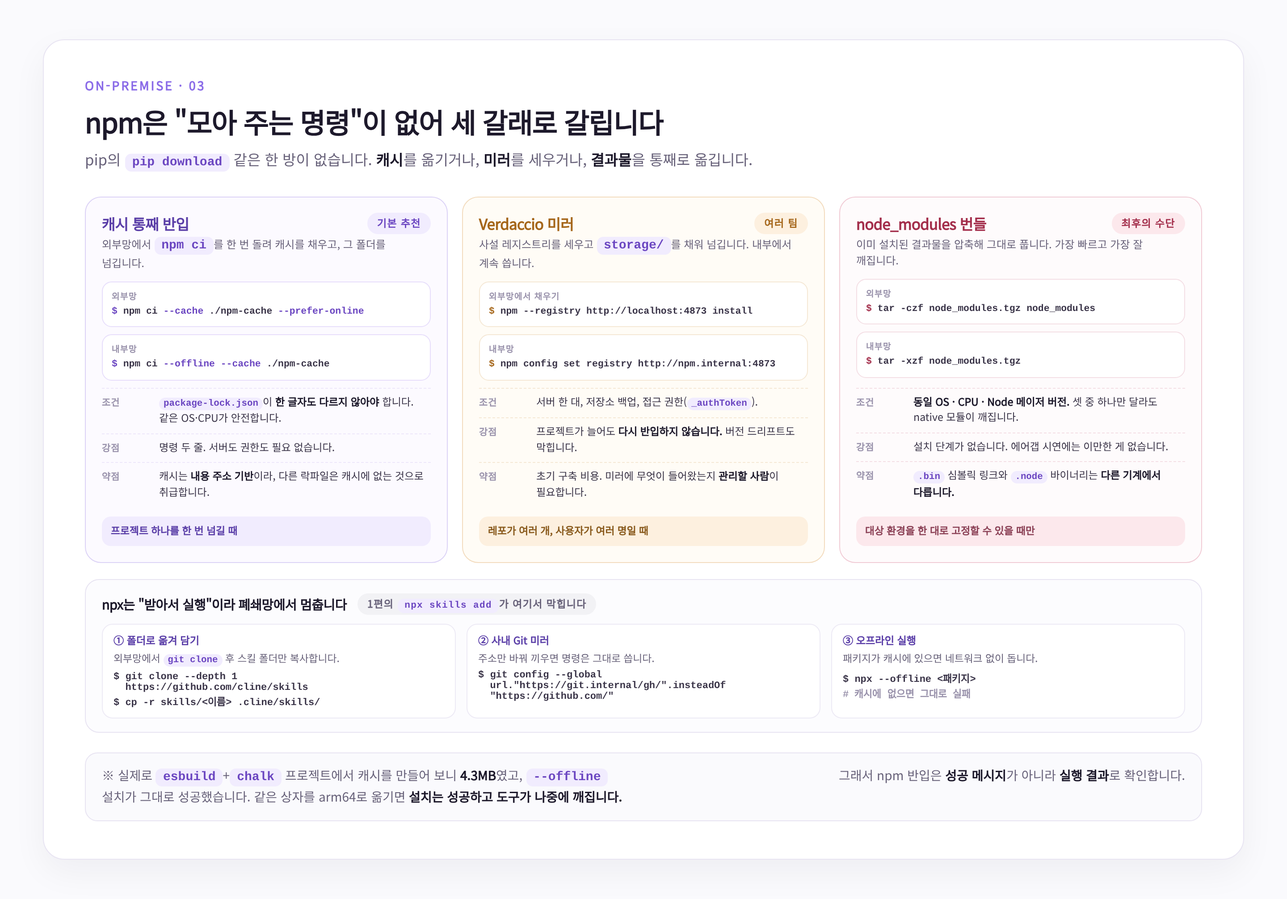
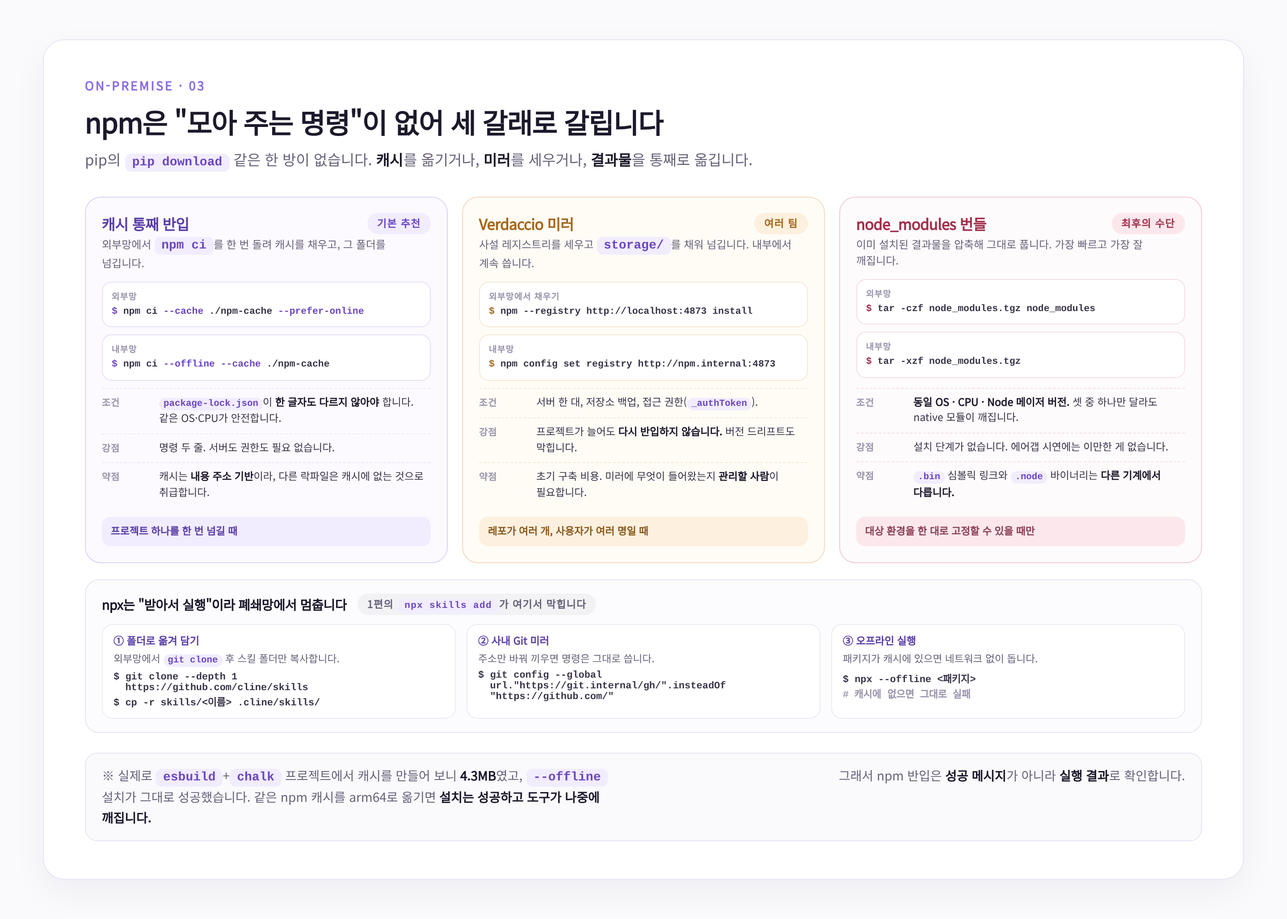
fix(notes): 4편 '상자' 은유를 패키지 용어로 교정 + 도식 4장 재렌더, 홈 히어로 영문 문구
- 본문 '상자·설치기·조각' 0건: 문맥별로 wheelhouse·npm 캐시·묶음·패키지 관리자·수동 반입으로 교체
- 도식 4장(반입 파이프라인·pip wheelhouse·npm 3ways·함정 체크리스트) 문구 동일 기준으로 재렌더
- diary-src/index.njk 히어로 설명을 'This is HD2Lab's work log.' 로 변경

diff --git a/posts/2026-11-18-onprem-pip-npm-offline-install/index.html b/posts/2026-11-18-onprem-pip-npm-offline-install/index.html
@@ -117,24 +117,24 @@
 
     <div class="md-body post-content">
         <p>첫 편에서 모델은 엔진, 하네스는 핸들이라고 적었습니다. 셋째 편에서는 그 핸들을 매일 쥐는 세팅을 정리했습니다. 그런데 그 세팅이 한 번에 멈추는 곳이 있습니다. 인터넷이 닫힌 망입니다. 모델도 도구도 스킬도 결국 패키지로 도착하는데, 그 패키지가 들어오지 못하면 앞의 모든 준비가 그 자리에서 서 있습니다.</p>
-<p>이 글은 그 문을 여는 방법에 대한 노트입니다. 거창한 아키텍처가 아니라, 인터넷이 되는 곳에서 상자 하나를 만들어 닫힌 망으로 넘기고, 그 상자만으로 설치를 끝내는 절차입니다. <a href="/diary/posts/2026-11-18-harness-layer-concept-and-usage/">모델은 엔진, 하네스는 핸들</a>에서 <code>npx</code>로 스킬을 얹던 이야기가 여기서 다시 나옵니다. 그 명령이 폐쇄망에서 왜 멈추는지도 이 글의 일부입니다.</p>
-<p>글에 나오는 숫자는 실제로 돌려 본 결과입니다. 리눅스 x86_64 환경에서 요구사항 세 줄을 받았더니 wheel 17개, 8.7MB였고, 그 상자로 빈 가상환경에서 설치와 <code>import</code>까지 확인했습니다. 예시는 그때 쓴 값 그대로입니다. 다만 회사마다 망 분리 정책과 반입 절차가 다르므로, 절차는 각자의 규정을 따르시고 이 글은 기술적인 부분만 다룹니다.</p>
+<p>이 글은 그 문을 여는 방법에 대한 노트입니다. 거창한 아키텍처가 아니라, 인터넷이 되는 곳에서 패키지와 그 의존성을 한데 모은 묶음 하나를 만들어 닫힌 망으로 넘기고, 그 묶음만으로 설치를 끝내는 절차입니다. <a href="/diary/posts/2026-11-18-harness-layer-concept-and-usage/">모델은 엔진, 하네스는 핸들</a>에서 <code>npx</code>로 스킬을 얹던 이야기가 여기서 다시 나옵니다. 그 명령이 폐쇄망에서 왜 멈추는지도 이 글의 일부입니다.</p>
+<p>글에 나오는 숫자는 실제로 돌려 본 결과입니다. 리눅스 x86_64 환경에서 요구사항 세 줄을 받았더니 wheel 17개, 8.7MB였고, 그 wheelhouse로 빈 가상환경에서 설치와 <code>import</code>까지 확인했습니다. 예시는 그때 쓴 값 그대로입니다. 다만 회사마다 망 분리 정책과 반입 절차가 다르므로, 절차는 각자의 규정을 따르시고 이 글은 기술적인 부분만 다룹니다.</p>
 <h2>1. 왜 폐쇄망에서 패키지 설치가 자꾸 깨질까</h2>
 <h3>&quot;설치는 복사다&quot;라고 생각하면 어긋납니다</h3>
 <p>인터넷이 되는 곳에서의 설치는 이미 잘 도는 기계입니다. <code>pip install fastapi</code>는 인덱스를 조회하고, 후보를 고르고, 의존성을 계산하고, 내 플랫폼에 맞는 파일을 받아 설치합니다. 이 과정이 너무 매끄러워서 &quot;패키지 하나 받아 오는 일&quot;로 보입니다.</p>
-<p>닫힌 망에서는 이 매끄러움이 사라집니다. 남는 것은 파일뿐입니다. 그런데 그 파일 하나를 복사해 오면, 설치기는 여전히 인덱스를 조회하려 하고, 의존성을 계산하려 하고, 내 플랫폼에 맞는지 확인하려 합니다. <strong>설치기가 하는 일을 미리 끝내 두지 않으면, 복사한 파일은 설치로 이어지지 않습니다.</strong> 폐쇄망에서 자주 깨지는 이유는 세 가지로 좁혀집니다.</p>
+<p>닫힌 망에서는 이 매끄러움이 사라집니다. 남는 것은 파일뿐입니다. 그런데 그 파일 하나를 복사해 오면, pip은 여전히 인덱스를 조회하려 하고, 의존성을 계산하려 하고, 내 플랫폼에 맞는지 확인하려 합니다. <strong>패키지 관리자가 하는 일을 미리 끝내 두지 않으면, 복사한 파일은 설치로 이어지지 않습니다.</strong> 폐쇄망에서 자주 깨지는 이유는 세 가지로 좁혀집니다.</p>
 <h3>이유 ① 전이 의존성이 따라오지 않습니다</h3>
 <p><code>requirements.txt</code>에 세 줄을 적었다고 설치되는 패키지가 세 개인 경우는 거의 없습니다. <code>fastapi</code>는 <code>starlette</code>를 부르고, <code>starlette</code>는 <code>anyio</code>를 부르고, <code>pydantic</code>은 <code>pydantic-core</code>를 부릅니다. <code>uvicorn[standard]</code>는 <code>uvloop</code>, <code>httptools</code>, <code>watchfiles</code>, <code>websockets</code>까지 끌고 옵니다.</p>
-<p>인터넷이 되면 이 사슬은 설치기가 알아서 풉니다. 닫힌 망에서는 풀 대상이 상자 안에 없으므로, 사슬이 끊긴 지점에서 멈춥니다. 그리고 그 지점은 대개 내가 적지 않은 이름입니다. 실제로 세 줄이 열일곱 개가 되었습니다.</p>
+<p>인터넷이 되면 이 사슬은 패키지 관리자가 알아서 풉니다. 닫힌 망에서는 풀 대상이 묶음 안에 없으므로, 사슬이 끊긴 지점에서 멈춥니다. 그리고 그 지점은 대개 내가 적지 않은 이름입니다. 실제로 세 줄이 열일곱 개가 되었습니다.</p>
 <h3>이유 ② OS·CPU 아키텍처와 버전이 태그로 붙습니다</h3>
-<p>파이썬 패키지의 wheel 파일 이름에는 조건이 적혀 있습니다. <code>uvloop-0.23.0-cp311-cp311-manylinux2014_x86_64.whl</code>이라는 이름은 &quot;파이썬 3.11, 리눅스, x86_64&quot;에서만 쓸 수 있다는 뜻입니다. 조건이 맞지 않으면 설치기는 그 파일을 후보에서 조용히 제외합니다.</p>
-<p>문제는 그 결과가 &quot;플랫폼이 다릅니다&quot;로 나오지 않는다는 점입니다. 아래는 파이썬 3.12 환경에 3.11용 상자를 넣었을 때 실제로 나온 메시지입니다.</p>
+<p>파이썬 패키지의 wheel 파일 이름에는 조건이 적혀 있습니다. <code>uvloop-0.23.0-cp311-cp311-manylinux2014_x86_64.whl</code>이라는 이름은 &quot;파이썬 3.11, 리눅스, x86_64&quot;에서만 쓸 수 있다는 뜻입니다. 조건이 맞지 않으면 pip은 그 파일을 후보에서 조용히 제외합니다.</p>
+<p>문제는 그 결과가 &quot;플랫폼이 다릅니다&quot;로 나오지 않는다는 점입니다. 아래는 파이썬 3.12 환경에 파이썬 3.11용으로 받은 wheelhouse를 넣었을 때 실제로 나온 메시지입니다.</p>
 <pre class="code-block" data-lang="text"><code class="hljs language-text">ERROR: Could not find a version that satisfies the requirement pydantic-core==2.27.2 (from versions: none)
 ERROR: No matching distribution found for pydantic-core==2.27.2
 </code></pre>
-<p>버전이 없는 것처럼 보이지만, 실제로는 그 버전의 파일이 태그 때문에 걸러진 것입니다. 이 메시지를 &quot;인덱스에 그 버전이 없나 보다&quot;로 읽으면 한참을 헤맵니다. Node 쪽도 같습니다. <code>esbuild</code>, <code>sharp</code> 같은 패키지는 플랫폼별 바이너리를 별도 패키지(<code>@esbuild/linux-arm64</code> 같은 이름)로 받아 오므로, 캐시를 한 아키텍처에서 만들면 다른 아키텍처에서는 그 조각이 없습니다. 그리고 이 경우 설치 자체는 성공합니다. 도구를 실행할 때 깨집니다.</p>
+<p>버전이 없는 것처럼 보이지만, 실제로는 그 버전의 파일이 태그 때문에 걸러진 것입니다. 이 메시지를 &quot;인덱스에 그 버전이 없나 보다&quot;로 읽으면 한참을 헤맵니다. Node 쪽도 같습니다. <code>esbuild</code>, <code>sharp</code> 같은 패키지는 플랫폼별 바이너리를 별도 패키지(<code>@esbuild/linux-arm64</code> 같은 이름)로 받아 오므로, 캐시를 한 아키텍처에서 만들면 다른 아키텍처에서는 그 플랫폼용 패키지가 빠져 있습니다. 그리고 이 경우 설치 자체는 성공합니다. 도구를 실행할 때 깨집니다.</p>
 <h3>이유 ③ 설치 스크립트가 다시 인터넷을 부릅니다</h3>
-<p>패키지 파일이 상자 안에 다 있어도, 설치 과정에서 스크립트가 도는 패키지가 있습니다. <code>playwright</code>는 브라우저를, <code>sharp</code>는 이미지 라이브러리를, <code>esbuild</code>는 플랫폼 바이너리를 확인하고, <code>node-gyp</code>을 쓰는 패키지는 컴파일러와 헤더를 찾습니다. 이 단계는 대개 설치 시점에 네트워크를 씁니다.</p>
+<p>패키지 파일이 묶음 안에 다 있어도, 설치 과정에서 스크립트가 도는 패키지가 있습니다. <code>playwright</code>는 브라우저를, <code>sharp</code>는 이미지 라이브러리를, <code>esbuild</code>는 플랫폼 바이너리를 확인하고, <code>node-gyp</code>을 쓰는 패키지는 컴파일러와 헤더를 찾습니다. 이 단계는 대개 설치 시점에 네트워크를 씁니다.</p>
 <p>그래서 &quot;패키지는 다 받았는데 설치가 네트워크 오류로 죽는다&quot;는 상황이 생깁니다. 받아야 할 것이 패키지가 아니라 <strong>바이너리</strong>였던 것입니다.</p>
 <h3>그래서 순서를 바꿉니다</h3>
 <p>세 가지 이유를 한 줄로 줄이면 이렇습니다. <strong>설치 시점에 네트워크를 쓰는 단계가 하나라도 남아 있으면, 그 단계에서 깨집니다.</strong> 해결은 그 단계를 모두 외부망으로 옮기고, 내부망에서는 네트워크를 아예 쓰지 않게 만드는 것입니다. 순서는 수집, 봉인, 검사, 설치 네 단계가 됩니다.</p>
@@ -148,7 +148,7 @@ ERROR: No matching distribution found for pydantic-core==2.27.2
 uvicorn[standard]==0.34.0
 pydantic==2.10.4
 </code></pre>
-<p>버전을 <code>==</code>로 고정한 것이 중요합니다. 범위(<code>&gt;=</code>)로 두면 받는 날짜에 따라 다른 상자가 만들어지고, 그 상자는 재현이 되지 않습니다. 내부망에서 &quot;지난달엔 됐는데&quot;가 나오는 출발점이 대개 여기입니다.</p>
+<p>버전을 <code>==</code>로 고정한 것이 중요합니다. 범위(<code>&gt;=</code>)로 두면 받는 날짜에 따라 다른 wheelhouse가 만들어지고, 그 결과는 재현되지 않습니다. 내부망에서 &quot;지난달엔 됐는데&quot;가 나오는 출발점이 대개 여기입니다.</p>
 <p>이제 외부망에서 받습니다. 내부 서버의 플랫폼이 실행 환경과 다르면 대상을 지정합니다.</p>
 <pre class="code-block" data-lang="bash"><code class="hljs language-bash"><span class="hljs-comment"># 내부 서버와 같은 환경에서 받는다면 이 두 줄이면 됩니다</span>
 pip download -r requirements.txt -d ./wheelhouse
@@ -190,17 +190,17 @@ or --only-binary=:all: must be set and --no-binary must not be set.
 <pre class="code-block" data-lang="bash"><code class="hljs language-bash">pip install --no-index --find-links=./wheelhouse -r requirements.txt
 </code></pre>
 <p><code>--no-index</code>는 &quot;어떤 인덱스도 보지 않는다&quot;는 뜻이고, <code>--find-links</code>는 &quot;이 폴더에서 파일을 찾는다&quot;는 뜻입니다. 두 옵션이 함께 있을 때 진짜 오프라인 설치가 됩니다. <code>--find-links</code>만 있고 <code>--no-index</code>가 없으면, 폴더에 없는 패키지를 인덱스에서 찾으려 시도합니다. 망이 닫혀 있으니 시간 초과로 죽고, 원인은 &quot;폴더에 없어서&quot;입니다.</p>
-<p>해시까지 고정하고 싶다면 <code>--require-hashes</code>를 함께 씁니다. 요구사항 파일에 <code>--hash=sha256:...</code>가 적혀 있어야 하고, pip은 상자 안의 파일 해시가 그 값과 다르면 설치하지 않습니다. 상자가 오래 보관되는 곳이라면 이 한 줄이 마지막 방어선이 됩니다.</p>
+<p>해시까지 고정하고 싶다면 <code>--require-hashes</code>를 함께 씁니다. 요구사항 파일에 <code>--hash=sha256:...</code>가 적혀 있어야 하고, pip은 wheelhouse 안의 파일 해시가 그 값과 다르면 설치하지 않습니다. wheelhouse를 오래 보관하는 곳이라면 이 한 줄이 마지막 방어선이 됩니다.</p>
 <h3>실패 메시지 세 개를 읽는 법</h3>
 <p>오프라인 설치에서 만나는 메시지는 세 갈래입니다. 갈래를 알면 처방도 바로 나옵니다.</p>
 <p><strong>첫째, 태그 불일치.</strong> 앞에서 본 <code>No matching distribution found for pydantic-core==2.27.2</code>입니다. 파일은 있지만 조건이 맞지 않습니다. <code>pip download</code>를 대상 플랫폼으로 다시 하거나, <code>ls wheelhouse | grep pydantic</code>으로 실제 태그를 확인합니다.</p>
 <p><strong>둘째, 빌드 도구 부재.</strong> 소스 배포판(sdist)을 만나면 pip은 격리된 빌드 환경을 만들고, 거기에 <code>setuptools</code>를 설치하려 합니다. 인덱스가 꺼져 있으니 그것도 실패합니다.</p>
 <pre class="code-block" data-lang="text"><code class="hljs language-text">ERROR: Could not find a version that satisfies the requirement setuptools&gt;=40.8.0 (from versions: none)
 </code></pre>
-<p>해결은 두 가지입니다. wheelhouse에 <code>setuptools</code>와 <code>wheel</code>을 함께 넣거나, 빌드 도구가 이미 깔린 환경에서 <code>--no-build-isolation</code>으로 설치합니다. 사내 미러를 오래 운영할 생각이라면 전자가 낫습니다. 상자 하나로 끝나기 때문입니다.</p>
-<p><strong>셋째, 버전 충돌.</strong> 상자에 A 패키지의 두 버전이 들어 있거나, 요구사항이 상자 안의 버전과 어긋날 때 납니다. 상자는 &quot;그날의 해답&quot;이므로, 상자를 만든 시점의 lockfile을 함께 넣어 두면 이 혼란이 줄어듭니다.</p>
+<p>해결은 두 가지입니다. wheelhouse에 <code>setuptools</code>와 <code>wheel</code>을 함께 넣거나, 빌드 도구가 이미 깔린 환경에서 <code>--no-build-isolation</code>으로 설치합니다. 사내 미러를 오래 운영할 생각이라면 전자가 낫습니다. wheelhouse 하나로 끝나기 때문입니다.</p>
+<p><strong>셋째, 버전 충돌.</strong> wheelhouse에 A 패키지의 두 버전이 들어 있거나, 요구사항이 wheelhouse 안의 버전과 어긋날 때 납니다. wheelhouse는 &quot;그날의 해답&quot;이므로, wheelhouse를 만든 시점의 lockfile을 함께 넣어 두면 이 혼란이 줄어듭니다.</p>
 <h3>방법 ② 사내 사설 PyPI</h3>
-<p>상자를 매번 들고 다니는 일이 잦아지면, 저장소를 하나 두는 편이 낫습니다. <code>devpi</code>, Nexus, Artifactory가 대표적이고, 원리는 같습니다. 외부 패키지를 대신 받아 두는 프록시 저장소를 사내에 두고, pip이 그곳만 보게 만드는 것입니다.</p>
+<p>wheelhouse를 매번 들고 다니는 일이 잦아지면, 저장소를 하나 두는 편이 낫습니다. <code>devpi</code>, Nexus, Artifactory가 대표적이고, 원리는 같습니다. 외부 패키지를 대신 받아 두는 프록시 저장소를 사내에 두고, pip이 그곳만 보게 만드는 것입니다.</p>
 <p>pip 쪽 설정은 파일 하나로 끝납니다. 리눅스에서는 <code>/etc/pip.conf</code>(전체), <code>~/.config/pip/pip.conf</code>(사용자), 가상환경 안의 <code>pip.conf</code> 순으로 읽습니다.</p>
 <pre class="code-block" data-lang="ini"><code class="hljs language-ini"><span class="hljs-section">[global]</span>
 <span class="hljs-attr">index-url</span> = http://pypi.internal/simple
@@ -232,7 +232,7 @@ npm ci --offline --cache ./npm-cache
 <li><code>package-lock.json</code>이 외부망에서 쓴 것과 같아야 합니다. 한 글자만 달라도 npm은 캐시에 없는 것으로 보고 실패합니다.</li>
 <li>캐시는 내용 주소 기반이라 파일명이 해시입니다. 사람이 읽고 확인할 수 없으므로, 검사는 <code>sha256</code>과 압축 파일 단위로 합니다.</li>
 </ul>
-<p>여기에 함정이 하나 더 있습니다. 플랫폼별로 받는 패키지(<code>@esbuild/linux-arm64</code> 같은 것)는 <strong>캐시를 만든 환경의 것만</strong> 들어 있습니다. 같은 상자를 다른 아키텍처로 옮기면 설치가 &quot;added 2 packages&quot;로 성공하고, 도구를 실행할 때 깨집니다. 그래서 npm 반입은 설치 성공 메시지가 아니라 <strong>실행 결과</strong>로 확인해야 합니다.</p>
+<p>여기에 함정이 하나 더 있습니다. 플랫폼별로 받는 패키지(<code>@esbuild/linux-arm64</code> 같은 것)는 <strong>캐시를 만든 환경의 것만</strong> 들어 있습니다. 같은 캐시를 다른 아키텍처로 옮기면 설치가 &quot;added 2 packages&quot;로 성공하고, 도구를 실행할 때 깨집니다. 그래서 npm 반입은 설치 성공 메시지가 아니라 <strong>실행 결과</strong>로 확인해야 합니다.</p>
 <h3>방법 ② Verdaccio 미러</h3>
 <p>프로젝트가 여러 개거나 쓰는 사람이 여러 명이면, 캐시를 매번 들고 다니는 일이 금방 한계에 부딪힙니다. 이때는 사내 npm 레지스트리를 하나 세웁니다. Verdaccio는 설정 파일 하나로 도는 경량 레지스트리이고, Nexus나 Artifactory의 npm 프록시 저장소도 같은 역할을 합니다.</p>
 <p>Verdaccio를 쓸 때의 포인트는 <strong>채우는 일과 쓰는 일을 나누는 것</strong>입니다. 외부망에서 Verdaccio를 띄우고, 그것을 경유해 설치하면 필요한 패키지가 Verdaccio의 저장 폴더에 쌓입니다. 그 폴더를 반입해 내부망 Verdaccio의 저장 폴더로 두면, 내부망에서는 이미 채워진 저장소가 됩니다.</p>
@@ -367,17 +367,17 @@ PLAYWRIGHT_BROWSERS_PATH=/opt/ms-playwright npx playwright install chromium
 <span class="hljs-built_in">export</span> PLAYWRIGHT_BROWSERS_PATH=/opt/ms-playwright
 </code></pre>
 <h3>반입 전 체크리스트</h3>
-<p>반입 신청을 올리기 전에 여섯 개만 확인하시면 됩니다. 이 목록은 상자를 만들 때마다 같은 순서로 돌립니다.</p>
+<p>반입 신청을 올리기 전에 여섯 개만 확인하시면 됩니다. 이 목록은 묶음을 만들 때마다 같은 순서로 돌립니다.</p>
 <ol>
 <li><strong>lockfile이 커밋되어 있는가.</strong> 버전 범위가 아니라 고정값이어야 합니다. <code>requirements.txt</code>는 <code>==</code>, Node는 <code>package-lock.json</code>입니다.</li>
 <li><strong>대상 플랫폼을 적었는가.</strong> OS, CPU, 파이썬·Node 버전. 이 네 값이 틀리면 나머지가 다 맞아도 안 됩니다.</li>
-<li><strong>빌드 도구가 상자에 있는가.</strong> 소스 배포판을 만날 경우를 대비해 <code>setuptools</code>, <code>wheel</code>을 함께 넣습니다.</li>
+<li><strong>빌드 도구가 wheelhouse에 있는가.</strong> 소스 배포판을 만날 경우를 대비해 <code>setuptools</code>, <code>wheel</code>을 함께 넣습니다.</li>
 <li><strong>manifest를 만들었는가.</strong> 파일별 <code>sha256</code>과 받은 날짜, 플랫폼. 검사와 재현의 근거입니다.</li>
 <li><strong>깨끗한 곳에서 설치해 봤는가.</strong> 빈 가상환경, 빈 <code>node_modules</code>에서 한 번. 여기서 되면 내부망에서도 됩니다.</li>
-<li><strong>보안·라이선스 검토를 거쳤는가.</strong> 반입은 여기서 끝납니다. 기술적으로 완벽한 상자도 이 단계를 통과하지 못하면 들어가지 못합니다.</li>
+<li><strong>보안·라이선스 검토를 거쳤는가.</strong> 반입은 여기서 끝납니다. 기술적으로 완벽한 묶음도 이 단계를 통과하지 못하면 들어가지 못합니다.</li>
 </ol>
 <p>manifest는 아래처럼 만들면 충분합니다. 파일이 수십 개라도 한 장으로 정리됩니다.</p>
-<pre class="code-block" data-lang="bash"><code class="hljs language-bash"><span class="hljs-comment"># 상자 안에서 manifest를 만듭니다</span>
+<pre class="code-block" data-lang="bash"><code class="hljs language-bash"><span class="hljs-comment"># wheelhouse에서 manifest를 만듭니다</span>
 <span class="hljs-built_in">cd</span> wheelhouse
 <span class="hljs-built_in">sha256sum</span> *.whl &gt; ../MANIFEST.sha256
 <span class="hljs-built_in">echo</span> <span class="hljs-string">&quot;# files: <span class="hljs-subst">$(ls *.whl | wc -l)</span>&quot;</span> &gt;&gt; ../MANIFEST.sha256
@@ -391,21 +391,21 @@ PLAYWRIGHT_BROWSERS_PATH=/opt/ms-playwright npx playwright install chromium
 <h2>5. 생각해 보기: 수동 반입으로 버틸 것인가, 사설 레지스트리를 띄울 것인가</h2>
 <p>여기까지 읽으면 자연스럽게 다음 질문이 남습니다. &quot;그래서 우리는 어디까지 자동화해야 하나?&quot; 정답을 정해 두기보다, 판단에 필요한 재료를 늘어놓겠습니다.</p>
 <h3>후보 1 — wheelhouse와 캐시를 손으로 넘긴다</h3>
-<p>가장 가볍게 시작할 수 있는 방법입니다. 서버도 권한도 필요 없고, 오늘 바로 할 수 있습니다. 상자가 곧 기록이 되므로 감사에도 유리합니다. &quot;이번 배포에 무엇이 들어갔는가&quot;를 파일 목록으로 보여 줄 수 있습니다.</p>
+<p>가장 가볍게 시작할 수 있는 방법입니다. 서버도 권한도 필요 없고, 오늘 바로 할 수 있습니다. 반입한 파일 목록이 곧 기록이 되므로 감사에도 유리합니다. &quot;이번 배포에 무엇이 들어갔는가&quot;를 파일 목록으로 보여 줄 수 있습니다.</p>
 <p>대가는 반복입니다. 프로젝트가 늘고 패키지가 바뀔 때마다 같은 일을 다시 합니다. 사람이 하는 일이므로 언젠가 빠뜨리고, 빠뜨린 것은 대개 배포 직전에 발견됩니다.</p>
 <h3>후보 2 — 사설 레지스트리를 띄운다</h3>
 <p>한 번 세우면 반입 단위가 &quot;프로젝트&quot;에서 &quot;패키지&quot;로 바뀝니다. 새 프로젝트가 생겨도 저장소에 있는 것은 다시 들이지 않습니다. 버전 드리프트도 줄어듭니다. 모두가 같은 저장소를 보기 때문입니다.</p>
 <p>대가는 운영입니다. 서버, 백업, 인증서, 접근 권한, 그리고 <strong>무엇이 들어왔는지 승인하는 절차</strong>가 필요합니다. 미러는 편의 장치이지 보안 장치가 아닙니다. 상류에서 무엇이든 받아 오도록 두면, 폐쇄망 안에 인터넷이 그대로 들어온 것과 같습니다.</p>
 <h3>후보 3 — 둘을 겹친다</h3>
-<p>실무에서 가장 흔한 답입니다. 사내 레지스트리를 두되, 외부에서 오는 것은 <strong>검증된 스냅샷 단위</strong>로만 넣습니다. 평소 설치는 레지스트리를 보고, 새 패키지가 필요할 때만 상자를 만들어 검사 후 적재합니다. 반입 기록은 상자 단위로 남고, 일상 설치는 자동화됩니다.</p>
-<p>이 구성의 핵심은 경계입니다. &quot;레지스트리에 있으면 자유롭게 설치&quot;가 아니라, &quot;레지스트리에 들어온 것은 이미 승인된 것&quot;이어야 합니다. 그 승인이 상자를 만들 때 일어납니다.</p>
+<p>실무에서 가장 흔한 답입니다. 사내 레지스트리를 두되, 외부에서 오는 것은 <strong>검증된 스냅샷 단위</strong>로만 넣습니다. 평소 설치는 레지스트리를 보고, 새 패키지가 필요할 때만 묶음을 만들어 검사 후 적재합니다. 반입 기록은 묶음 단위로 남고, 일상 설치는 자동화됩니다.</p>
+<p>이 구성의 핵심은 경계입니다. &quot;레지스트리에 있으면 자유롭게 설치&quot;가 아니라, &quot;레지스트리에 들어온 것은 이미 승인된 것&quot;이어야 합니다. 그 승인은 묶음을 만들 때 일어납니다.</p>
 <h3>판단 기준</h3>
 <p>세 후보를 가르는 기준은 결국 세 가지입니다.</p>
 <div class="table-wrap"><table><thead>
 <tr>
 <th>기준</th>
 <th>질문</th>
-<th>수동 상자</th>
+<th>수동 반입</th>
 <th>사설 레지스트리</th>
 </tr>
 </thead>
@@ -429,27 +429,27 @@ PLAYWRIGHT_BROWSERS_PATH=/opt/ms-playwright npx playwright install chromium
 <td>있어야 함</td>
 </tr>
 </tbody>
-</table></div><p>세 질문에 모두 &quot;드물다, 하나다, 없다&quot;로 답했다면 상자로 충분합니다. 하나라도 반대라면, 그 항목이 레지스트리를 부를 시점입니다. 처음부터 완벽한 미러를 만들려 하지 말고, 상자로 시작해 같은 패키지를 세 번째로 받는 순간에 저장소를 생각하시길 권합니다.</p>
+</table></div><p>세 질문에 모두 &quot;드물다, 하나다, 없다&quot;로 답했다면 수동 반입으로 충분합니다. 하나라도 반대라면, 그 항목이 레지스트리를 부를 시점입니다. 처음부터 완벽한 미러를 만들려 하지 말고, 수동 반입으로 시작해 같은 패키지를 세 번째로 받는 순간에 저장소를 생각하시길 권합니다.</p>
 <h3>스스로 답해 볼 다섯 가지</h3>
 <ol>
-<li><strong>우리 내부 서버의 OS·CPU·런타임 버전을 한 줄로 말할 수 있는가?</strong> 없다면 상자부터 틀립니다.</li>
-<li><strong>마지막 반입 상자에 든 패키지 개수를 아는가?</strong> 모른다면 다음 반입에서 무엇이 빠졌는지도 모릅니다.</li>
+<li><strong>우리 내부 서버의 OS·CPU·런타임 버전을 한 줄로 말할 수 있는가?</strong> 없다면 받을 패키지부터 틀립니다.</li>
+<li><strong>마지막 반입 묶음에 든 패키지 개수를 아는가?</strong> 모른다면 다음 반입에서 무엇이 빠졌는지도 모릅니다.</li>
 <li><strong>설치 스크립트가 네트워크를 쓰는 패키지가 우리 의존성에 있는가?</strong> <code>playwright</code>, <code>sharp</code>, <code>esbuild</code>가 대표입니다.</li>
-<li><strong>깨끗한 환경에서 설치해 봤는가?</strong> 개발자 PC에서만 성공한 상자는 아직 검증되지 않은 상자입니다.</li>
-<li><strong>반입한 것을 누가 승인했는지 남는가?</strong> 남지 않는다면, 그 상자는 다음 사람에게 설명할 수 없습니다.</li>
+<li><strong>깨끗한 환경에서 설치해 봤는가?</strong> 개발자 PC에서만 성공한 묶음은 아직 검증되지 않은 묶음입니다.</li>
+<li><strong>반입한 것을 누가 승인했는지 남는가?</strong> 남지 않는다면, 그 묶음은 다음 사람에게 설명할 수 없습니다.</li>
 </ol>
 <h2>마무리</h2>
 <p>정리하면 이렇습니다.</p>
 <ul>
 <li>폐쇄망에서 설치는 &quot;설치&quot;가 아니라 &quot;반입&quot;에서 깨집니다. 전이 의존성, 플랫폼 태그, 설치 스크립트의 외부 호출이 원인입니다.</li>
-<li>파이썬은 <code>pip download</code>로 상자를 만들고 <code>--no-index --find-links</code>로 설치합니다. <code>--platform</code>을 쓸 때는 <code>--only-binary=:all:</code>이 강제됩니다.</li>
+<li>파이썬은 <code>pip download</code>로 wheelhouse를 만들고 <code>--no-index --find-links</code>로 설치합니다. <code>--platform</code>을 쓸 때는 <code>--only-binary=:all:</code>이 강제됩니다.</li>
 <li>&quot;버전이 없다&quot;는 메시지는 대개 태그가 맞지 않다는 뜻입니다. wheel 파일 이름을 읽을 줄 알면 진단이 빨라집니다.</li>
 <li>Node는 모아 주는 기본 명령이 없어 캐시, 미러, 번들 중에서 고릅니다. 캐시는 락파일과 플랫폼이 같아야 하고, 번들은 셋이 모두 같아야 합니다.</li>
 <li><code>npx</code>는 실행 시점에 네트워크를 봅니다. 폴더 복사, 사내 미러, <code>--offline</code>으로 우회합니다.</li>
 <li>반입은 검사할 수 있는 형태로 만드는 일입니다. 폴더 하나, manifest 하나, 설치 리허설 한 번.</li>
 </ul>
 <p>이 글은 도구를 소개하기보다, 도구가 멈추는 지점을 정리한 기록에 가깝습니다. 닫힌 망은 특별한 환경이 아니라, 우리가 평소 당연하게 쓰던 것들이 한꺼번에 드러나는 환경입니다. 그곳에서 무엇이 필요한지 목록으로 만들고 나면, 인터넷이 되는 곳의 작업도 조금 더 단단해집니다.</p>
-<p>오늘 해 볼 일은 하나면 충분합니다. 지금 쓰는 프로젝트에서 <code>requirements.txt</code>와 <code>package-lock.json</code>을 열고, 대상 환경의 OS·CPU·버전을 파일 맨 위에 적어 두는 것. 그 네 줄이 첫 상자의 설계도가 됩니다.</p>
+<p>오늘 해 볼 일은 하나면 충분합니다. 지금 쓰는 프로젝트에서 <code>requirements.txt</code>와 <code>package-lock.json</code>을 열고, 대상 환경의 OS·CPU·버전을 파일 맨 위에 적어 두는 것. 그 네 줄이 첫 묶음의 설계도가 됩니다.</p>
 
     </div>
 

diff --git a/index.html b/index.html
@@ -102,7 +102,7 @@
     <div class="hero-copy">
         <p class="eyebrow"><span class="eyebrow-dot" aria-hidden="true"></span>HD2Lab / Diary</p>
         <h1 id="diary-title">Build it. Break it.<br><span>Write it down.</span></h1>
-        <p class="hero-description">만든 것과 부순 것, 그리고 다시 세운 이유.<br>HD2Lab의 작업 기록을 여기에 남긴다.</p>
+        <p class="hero-description">This is HD2Lab's work log.</p>
         <div class="hero-actions">
             <a class="button button-primary" href="#recent">최근 기록 보기</a>
             <a class="button button-ghost" href="#categories">카테고리 보기</a>

diff --git a/diary-src/posts/2026-11-18-onprem-pip-npm-offline-install.md b/diary-src/posts/2026-11-18-onprem-pip-npm-offline-install.md
@@ -9,9 +9,9 @@ layout: post
 
 첫 편에서 모델은 엔진, 하네스는 핸들이라고 적었습니다. 셋째 편에서는 그 핸들을 매일 쥐는 세팅을 정리했습니다. 그런데 그 세팅이 한 번에 멈추는 곳이 있습니다. 인터넷이 닫힌 망입니다. 모델도 도구도 스킬도 결국 패키지로 도착하는데, 그 패키지가 들어오지 못하면 앞의 모든 준비가 그 자리에서 서 있습니다.
 
-이 글은 그 문을 여는 방법에 대한 노트입니다. 거창한 아키텍처가 아니라, 인터넷이 되는 곳에서 상자 하나를 만들어 닫힌 망으로 넘기고, 그 상자만으로 설치를 끝내는 절차입니다. [모델은 엔진, 하네스는 핸들](/diary/posts/2026-11-18-harness-layer-concept-and-usage/)에서 `npx`로 스킬을 얹던 이야기가 여기서 다시 나옵니다. 그 명령이 폐쇄망에서 왜 멈추는지도 이 글의 일부입니다.
+이 글은 그 문을 여는 방법에 대한 노트입니다. 거창한 아키텍처가 아니라, 인터넷이 되는 곳에서 패키지와 그 의존성을 한데 모은 묶음 하나를 만들어 닫힌 망으로 넘기고, 그 묶음만으로 설치를 끝내는 절차입니다. [모델은 엔진, 하네스는 핸들](/diary/posts/2026-11-18-harness-layer-concept-and-usage/)에서 `npx`로 스킬을 얹던 이야기가 여기서 다시 나옵니다. 그 명령이 폐쇄망에서 왜 멈추는지도 이 글의 일부입니다.
 
-글에 나오는 숫자는 실제로 돌려 본 결과입니다. 리눅스 x86_64 환경에서 요구사항 세 줄을 받았더니 wheel 17개, 8.7MB였고, 그 상자로 빈 가상환경에서 설치와 `import`까지 확인했습니다. 예시는 그때 쓴 값 그대로입니다. 다만 회사마다 망 분리 정책과 반입 절차가 다르므로, 절차는 각자의 규정을 따르시고 이 글은 기술적인 부분만 다룹니다.
+글에 나오는 숫자는 실제로 돌려 본 결과입니다. 리눅스 x86_64 환경에서 요구사항 세 줄을 받았더니 wheel 17개, 8.7MB였고, 그 wheelhouse로 빈 가상환경에서 설치와 `import`까지 확인했습니다. 예시는 그때 쓴 값 그대로입니다. 다만 회사마다 망 분리 정책과 반입 절차가 다르므로, 절차는 각자의 규정을 따르시고 이 글은 기술적인 부분만 다룹니다.
 
 ## 1. 왜 폐쇄망에서 패키지 설치가 자꾸 깨질까
 
@@ -19,30 +19,30 @@ layout: post
 
 인터넷이 되는 곳에서의 설치는 이미 잘 도는 기계입니다. `pip install fastapi`는 인덱스를 조회하고, 후보를 고르고, 의존성을 계산하고, 내 플랫폼에 맞는 파일을 받아 설치합니다. 이 과정이 너무 매끄러워서 "패키지 하나 받아 오는 일"로 보입니다.
 
-닫힌 망에서는 이 매끄러움이 사라집니다. 남는 것은 파일뿐입니다. 그런데 그 파일 하나를 복사해 오면, 설치기는 여전히 인덱스를 조회하려 하고, 의존성을 계산하려 하고, 내 플랫폼에 맞는지 확인하려 합니다. **설치기가 하는 일을 미리 끝내 두지 않으면, 복사한 파일은 설치로 이어지지 않습니다.** 폐쇄망에서 자주 깨지는 이유는 세 가지로 좁혀집니다.
+닫힌 망에서는 이 매끄러움이 사라집니다. 남는 것은 파일뿐입니다. 그런데 그 파일 하나를 복사해 오면, pip은 여전히 인덱스를 조회하려 하고, 의존성을 계산하려 하고, 내 플랫폼에 맞는지 확인하려 합니다. **패키지 관리자가 하는 일을 미리 끝내 두지 않으면, 복사한 파일은 설치로 이어지지 않습니다.** 폐쇄망에서 자주 깨지는 이유는 세 가지로 좁혀집니다.
 
 ### 이유 ① 전이 의존성이 따라오지 않습니다
 
 `requirements.txt`에 세 줄을 적었다고 설치되는 패키지가 세 개인 경우는 거의 없습니다. `fastapi`는 `starlette`를 부르고, `starlette`는 `anyio`를 부르고, `pydantic`은 `pydantic-core`를 부릅니다. `uvicorn[standard]`는 `uvloop`, `httptools`, `watchfiles`, `websockets`까지 끌고 옵니다.
 
-인터넷이 되면 이 사슬은 설치기가 알아서 풉니다. 닫힌 망에서는 풀 대상이 상자 안에 없으므로, 사슬이 끊긴 지점에서 멈춥니다. 그리고 그 지점은 대개 내가 적지 않은 이름입니다. 실제로 세 줄이 열일곱 개가 되었습니다.
+인터넷이 되면 이 사슬은 패키지 관리자가 알아서 풉니다. 닫힌 망에서는 풀 대상이 묶음 안에 없으므로, 사슬이 끊긴 지점에서 멈춥니다. 그리고 그 지점은 대개 내가 적지 않은 이름입니다. 실제로 세 줄이 열일곱 개가 되었습니다.
 
 ### 이유 ② OS·CPU 아키텍처와 버전이 태그로 붙습니다
 
-파이썬 패키지의 wheel 파일 이름에는 조건이 적혀 있습니다. `uvloop-0.23.0-cp311-cp311-manylinux2014_x86_64.whl`이라는 이름은 "파이썬 3.11, 리눅스, x86_64"에서만 쓸 수 있다는 뜻입니다. 조건이 맞지 않으면 설치기는 그 파일을 후보에서 조용히 제외합니다.
+파이썬 패키지의 wheel 파일 이름에는 조건이 적혀 있습니다. `uvloop-0.23.0-cp311-cp311-manylinux2014_x86_64.whl`이라는 이름은 "파이썬 3.11, 리눅스, x86_64"에서만 쓸 수 있다는 뜻입니다. 조건이 맞지 않으면 pip은 그 파일을 후보에서 조용히 제외합니다.
 
-문제는 그 결과가 "플랫폼이 다릅니다"로 나오지 않는다는 점입니다. 아래는 파이썬 3.12 환경에 3.11용 상자를 넣었을 때 실제로 나온 메시지입니다.
+문제는 그 결과가 "플랫폼이 다릅니다"로 나오지 않는다는 점입니다. 아래는 파이썬 3.12 환경에 파이썬 3.11용으로 받은 wheelhouse를 넣었을 때 실제로 나온 메시지입니다.
 
 ```text
 ERROR: Could not find a version that satisfies the requirement pydantic-core==2.27.2 (from versions: none)
 ERROR: No matching distribution found for pydantic-core==2.27.2
 ```
 
-버전이 없는 것처럼 보이지만, 실제로는 그 버전의 파일이 태그 때문에 걸러진 것입니다. 이 메시지를 "인덱스에 그 버전이 없나 보다"로 읽으면 한참을 헤맵니다. Node 쪽도 같습니다. `esbuild`, `sharp` 같은 패키지는 플랫폼별 바이너리를 별도 패키지(`@esbuild/linux-arm64` 같은 이름)로 받아 오므로, 캐시를 한 아키텍처에서 만들면 다른 아키텍처에서는 그 조각이 없습니다. 그리고 이 경우 설치 자체는 성공합니다. 도구를 실행할 때 깨집니다.
+버전이 없는 것처럼 보이지만, 실제로는 그 버전의 파일이 태그 때문에 걸러진 것입니다. 이 메시지를 "인덱스에 그 버전이 없나 보다"로 읽으면 한참을 헤맵니다. Node 쪽도 같습니다. `esbuild`, `sharp` 같은 패키지는 플랫폼별 바이너리를 별도 패키지(`@esbuild/linux-arm64` 같은 이름)로 받아 오므로, 캐시를 한 아키텍처에서 만들면 다른 아키텍처에서는 그 플랫폼용 패키지가 빠져 있습니다. 그리고 이 경우 설치 자체는 성공합니다. 도구를 실행할 때 깨집니다.
 
 ### 이유 ③ 설치 스크립트가 다시 인터넷을 부릅니다
 
-패키지 파일이 상자 안에 다 있어도, 설치 과정에서 스크립트가 도는 패키지가 있습니다. `playwright`는 브라우저를, `sharp`는 이미지 라이브러리를, `esbuild`는 플랫폼 바이너리를 확인하고, `node-gyp`을 쓰는 패키지는 컴파일러와 헤더를 찾습니다. 이 단계는 대개 설치 시점에 네트워크를 씁니다.
+패키지 파일이 묶음 안에 다 있어도, 설치 과정에서 스크립트가 도는 패키지가 있습니다. `playwright`는 브라우저를, `sharp`는 이미지 라이브러리를, `esbuild`는 플랫폼 바이너리를 확인하고, `node-gyp`을 쓰는 패키지는 컴파일러와 헤더를 찾습니다. 이 단계는 대개 설치 시점에 네트워크를 씁니다.
 
 그래서 "패키지는 다 받았는데 설치가 네트워크 오류로 죽는다"는 상황이 생깁니다. 받아야 할 것이 패키지가 아니라 **바이너리**였던 것입니다.
 
@@ -68,7 +68,7 @@ uvicorn[standard]==0.34.0
 pydantic==2.10.4
 ```
 
-버전을 `==`로 고정한 것이 중요합니다. 범위(`>=`)로 두면 받는 날짜에 따라 다른 상자가 만들어지고, 그 상자는 재현이 되지 않습니다. 내부망에서 "지난달엔 됐는데"가 나오는 출발점이 대개 여기입니다.
+버전을 `==`로 고정한 것이 중요합니다. 범위(`>=`)로 두면 받는 날짜에 따라 다른 wheelhouse가 만들어지고, 그 결과는 재현되지 않습니다. 내부망에서 "지난달엔 됐는데"가 나오는 출발점이 대개 여기입니다.
 
 이제 외부망에서 받습니다. 내부 서버의 플랫폼이 실행 환경과 다르면 대상을 지정합니다.
 
@@ -109,7 +109,7 @@ pip install --no-index --find-links=./wheelhouse -r requirements.txt
 
 `--no-index`는 "어떤 인덱스도 보지 않는다"는 뜻이고, `--find-links`는 "이 폴더에서 파일을 찾는다"는 뜻입니다. 두 옵션이 함께 있을 때 진짜 오프라인 설치가 됩니다. `--find-links`만 있고 `--no-index`가 없으면, 폴더에 없는 패키지를 인덱스에서 찾으려 시도합니다. 망이 닫혀 있으니 시간 초과로 죽고, 원인은 "폴더에 없어서"입니다.
 
-해시까지 고정하고 싶다면 `--require-hashes`를 함께 씁니다. 요구사항 파일에 `--hash=sha256:...`가 적혀 있어야 하고, pip은 상자 안의 파일 해시가 그 값과 다르면 설치하지 않습니다. 상자가 오래 보관되는 곳이라면 이 한 줄이 마지막 방어선이 됩니다.
+해시까지 고정하고 싶다면 `--require-hashes`를 함께 씁니다. 요구사항 파일에 `--hash=sha256:...`가 적혀 있어야 하고, pip은 wheelhouse 안의 파일 해시가 그 값과 다르면 설치하지 않습니다. wheelhouse를 오래 보관하는 곳이라면 이 한 줄이 마지막 방어선이 됩니다.
 
 ### 실패 메시지 세 개를 읽는 법
 
@@ -123,13 +123,13 @@ pip install --no-index --find-links=./wheelhouse -r requirements.txt
 ERROR: Could not find a version that satisfies the requirement setuptools>=40.8.0 (from versions: none)
 ```
 
-해결은 두 가지입니다. wheelhouse에 `setuptools`와 `wheel`을 함께 넣거나, 빌드 도구가 이미 깔린 환경에서 `--no-build-isolation`으로 설치합니다. 사내 미러를 오래 운영할 생각이라면 전자가 낫습니다. 상자 하나로 끝나기 때문입니다.
+해결은 두 가지입니다. wheelhouse에 `setuptools`와 `wheel`을 함께 넣거나, 빌드 도구가 이미 깔린 환경에서 `--no-build-isolation`으로 설치합니다. 사내 미러를 오래 운영할 생각이라면 전자가 낫습니다. wheelhouse 하나로 끝나기 때문입니다.
 
-**셋째, 버전 충돌.** 상자에 A 패키지의 두 버전이 들어 있거나, 요구사항이 상자 안의 버전과 어긋날 때 납니다. 상자는 "그날의 해답"이므로, 상자를 만든 시점의 lockfile을 함께 넣어 두면 이 혼란이 줄어듭니다.
+**셋째, 버전 충돌.** wheelhouse에 A 패키지의 두 버전이 들어 있거나, 요구사항이 wheelhouse 안의 버전과 어긋날 때 납니다. wheelhouse는 "그날의 해답"이므로, wheelhouse를 만든 시점의 lockfile을 함께 넣어 두면 이 혼란이 줄어듭니다.
 
 ### 방법 ② 사내 사설 PyPI
 
-상자를 매번 들고 다니는 일이 잦아지면, 저장소를 하나 두는 편이 낫습니다. `devpi`, Nexus, Artifactory가 대표적이고, 원리는 같습니다. 외부 패키지를 대신 받아 두는 프록시 저장소를 사내에 두고, pip이 그곳만 보게 만드는 것입니다.
+wheelhouse를 매번 들고 다니는 일이 잦아지면, 저장소를 하나 두는 편이 낫습니다. `devpi`, Nexus, Artifactory가 대표적이고, 원리는 같습니다. 외부 패키지를 대신 받아 두는 프록시 저장소를 사내에 두고, pip이 그곳만 보게 만드는 것입니다.
 
 pip 쪽 설정은 파일 하나로 끝납니다. 리눅스에서는 `/etc/pip.conf`(전체), `~/.config/pip/pip.conf`(사용자), 가상환경 안의 `pip.conf` 순으로 읽습니다.
 
@@ -180,7 +180,7 @@ npm ci --offline --cache ./npm-cache
 - `package-lock.json`이 외부망에서 쓴 것과 같아야 합니다. 한 글자만 달라도 npm은 캐시에 없는 것으로 보고 실패합니다.
 - 캐시는 내용 주소 기반이라 파일명이 해시입니다. 사람이 읽고 확인할 수 없으므로, 검사는 `sha256`과 압축 파일 단위로 합니다.
 
-여기에 함정이 하나 더 있습니다. 플랫폼별로 받는 패키지(`@esbuild/linux-arm64` 같은 것)는 **캐시를 만든 환경의 것만** 들어 있습니다. 같은 상자를 다른 아키텍처로 옮기면 설치가 "added 2 packages"로 성공하고, 도구를 실행할 때 깨집니다. 그래서 npm 반입은 설치 성공 메시지가 아니라 **실행 결과**로 확인해야 합니다.
+여기에 함정이 하나 더 있습니다. 플랫폼별로 받는 패키지(`@esbuild/linux-arm64` 같은 것)는 **캐시를 만든 환경의 것만** 들어 있습니다. 같은 캐시를 다른 아키텍처로 옮기면 설치가 "added 2 packages"로 성공하고, 도구를 실행할 때 깨집니다. 그래서 npm 반입은 설치 성공 메시지가 아니라 **실행 결과**로 확인해야 합니다.
 
 ### 방법 ② Verdaccio 미러
 
@@ -291,19 +291,19 @@ export PLAYWRIGHT_BROWSERS_PATH=/opt/ms-playwright
 
 ### 반입 전 체크리스트
 
-반입 신청을 올리기 전에 여섯 개만 확인하시면 됩니다. 이 목록은 상자를 만들 때마다 같은 순서로 돌립니다.
+반입 신청을 올리기 전에 여섯 개만 확인하시면 됩니다. 이 목록은 묶음을 만들 때마다 같은 순서로 돌립니다.
 
 1. **lockfile이 커밋되어 있는가.** 버전 범위가 아니라 고정값이어야 합니다. `requirements.txt`는 `==`, Node는 `package-lock.json`입니다.
 2. **대상 플랫폼을 적었는가.** OS, CPU, 파이썬·Node 버전. 이 네 값이 틀리면 나머지가 다 맞아도 안 됩니다.
-3. **빌드 도구가 상자에 있는가.** 소스 배포판을 만날 경우를 대비해 `setuptools`, `wheel`을 함께 넣습니다.
+3. **빌드 도구가 wheelhouse에 있는가.** 소스 배포판을 만날 경우를 대비해 `setuptools`, `wheel`을 함께 넣습니다.
 4. **manifest를 만들었는가.** 파일별 `sha256`과 받은 날짜, 플랫폼. 검사와 재현의 근거입니다.
 5. **깨끗한 곳에서 설치해 봤는가.** 빈 가상환경, 빈 `node_modules`에서 한 번. 여기서 되면 내부망에서도 됩니다.
-6. **보안·라이선스 검토를 거쳤는가.** 반입은 여기서 끝납니다. 기술적으로 완벽한 상자도 이 단계를 통과하지 못하면 들어가지 못합니다.
+6. **보안·라이선스 검토를 거쳤는가.** 반입은 여기서 끝납니다. 기술적으로 완벽한 묶음도 이 단계를 통과하지 못하면 들어가지 못합니다.
 
 manifest는 아래처럼 만들면 충분합니다. 파일이 수십 개라도 한 장으로 정리됩니다.
 
 ```bash
-# 상자 안에서 manifest를 만듭니다
+# wheelhouse에서 manifest를 만듭니다
 cd wheelhouse
 sha256sum *.whl > ../MANIFEST.sha256
 echo "# files: $(ls *.whl | wc -l)" >> ../MANIFEST.sha256
@@ -323,7 +323,7 @@ cd wheelhouse && sha256sum -c ../MANIFEST.sha256
 
 ### 후보 1 — wheelhouse와 캐시를 손으로 넘긴다
 
-가장 가볍게 시작할 수 있는 방법입니다. 서버도 권한도 필요 없고, 오늘 바로 할 수 있습니다. 상자가 곧 기록이 되므로 감사에도 유리합니다. "이번 배포에 무엇이 들어갔는가"를 파일 목록으로 보여 줄 수 있습니다.
+가장 가볍게 시작할 수 있는 방법입니다. 서버도 권한도 필요 없고, 오늘 바로 할 수 있습니다. 반입한 파일 목록이 곧 기록이 되므로 감사에도 유리합니다. "이번 배포에 무엇이 들어갔는가"를 파일 목록으로 보여 줄 수 있습니다.
 
 대가는 반복입니다. 프로젝트가 늘고 패키지가 바뀔 때마다 같은 일을 다시 합니다. 사람이 하는 일이므로 언젠가 빠뜨리고, 빠뜨린 것은 대개 배포 직전에 발견됩니다.
 
@@ -335,36 +335,36 @@ cd wheelhouse && sha256sum -c ../MANIFEST.sha256
 
 ### 후보 3 — 둘을 겹친다
 
-실무에서 가장 흔한 답입니다. 사내 레지스트리를 두되, 외부에서 오는 것은 **검증된 스냅샷 단위**로만 넣습니다. 평소 설치는 레지스트리를 보고, 새 패키지가 필요할 때만 상자를 만들어 검사 후 적재합니다. 반입 기록은 상자 단위로 남고, 일상 설치는 자동화됩니다.
+실무에서 가장 흔한 답입니다. 사내 레지스트리를 두되, 외부에서 오는 것은 **검증된 스냅샷 단위**로만 넣습니다. 평소 설치는 레지스트리를 보고, 새 패키지가 필요할 때만 묶음을 만들어 검사 후 적재합니다. 반입 기록은 묶음 단위로 남고, 일상 설치는 자동화됩니다.
 
-이 구성의 핵심은 경계입니다. "레지스트리에 있으면 자유롭게 설치"가 아니라, "레지스트리에 들어온 것은 이미 승인된 것"이어야 합니다. 그 승인이 상자를 만들 때 일어납니다.
+이 구성의 핵심은 경계입니다. "레지스트리에 있으면 자유롭게 설치"가 아니라, "레지스트리에 들어온 것은 이미 승인된 것"이어야 합니다. 그 승인은 묶음을 만들 때 일어납니다.
 
 ### 판단 기준
 
 세 후보를 가르는 기준은 결국 세 가지입니다.
 
-| 기준 | 질문 | 수동 상자 | 사설 레지스트리 |
+| 기준 | 질문 | 수동 반입 | 사설 레지스트리 |
 | --- | --- | --- | --- |
 | 반입 빈도 | 한 달에 몇 번인가 | 드물면 유리 | 잦으면 유리 |
 | 프로젝트 수 | 몇 개가 같은 패키지를 쓰는가 | 하나면 유리 | 여럿이면 유리 |
 | 운영 여력 | 서버와 승인 절차를 맡을 사람이 있는가 | 없어도 됨 | 있어야 함 |
 
-세 질문에 모두 "드물다, 하나다, 없다"로 답했다면 상자로 충분합니다. 하나라도 반대라면, 그 항목이 레지스트리를 부를 시점입니다. 처음부터 완벽한 미러를 만들려 하지 말고, 상자로 시작해 같은 패키지를 세 번째로 받는 순간에 저장소를 생각하시길 권합니다.
+세 질문에 모두 "드물다, 하나다, 없다"로 답했다면 수동 반입으로 충분합니다. 하나라도 반대라면, 그 항목이 레지스트리를 부를 시점입니다. 처음부터 완벽한 미러를 만들려 하지 말고, 수동 반입으로 시작해 같은 패키지를 세 번째로 받는 순간에 저장소를 생각하시길 권합니다.
 
 ### 스스로 답해 볼 다섯 가지
 
-1. **우리 내부 서버의 OS·CPU·런타임 버전을 한 줄로 말할 수 있는가?** 없다면 상자부터 틀립니다.
-2. **마지막 반입 상자에 든 패키지 개수를 아는가?** 모른다면 다음 반입에서 무엇이 빠졌는지도 모릅니다.
+1. **우리 내부 서버의 OS·CPU·런타임 버전을 한 줄로 말할 수 있는가?** 없다면 받을 패키지부터 틀립니다.
+2. **마지막 반입 묶음에 든 패키지 개수를 아는가?** 모른다면 다음 반입에서 무엇이 빠졌는지도 모릅니다.
 3. **설치 스크립트가 네트워크를 쓰는 패키지가 우리 의존성에 있는가?** `playwright`, `sharp`, `esbuild`가 대표입니다.
-4. **깨끗한 환경에서 설치해 봤는가?** 개발자 PC에서만 성공한 상자는 아직 검증되지 않은 상자입니다.
-5. **반입한 것을 누가 승인했는지 남는가?** 남지 않는다면, 그 상자는 다음 사람에게 설명할 수 없습니다.
+4. **깨끗한 환경에서 설치해 봤는가?** 개발자 PC에서만 성공한 묶음은 아직 검증되지 않은 묶음입니다.
+5. **반입한 것을 누가 승인했는지 남는가?** 남지 않는다면, 그 묶음은 다음 사람에게 설명할 수 없습니다.
 
 ## 마무리
 
 정리하면 이렇습니다.
 
 - 폐쇄망에서 설치는 "설치"가 아니라 "반입"에서 깨집니다. 전이 의존성, 플랫폼 태그, 설치 스크립트의 외부 호출이 원인입니다.
-- 파이썬은 `pip download`로 상자를 만들고 `--no-index --find-links`로 설치합니다. `--platform`을 쓸 때는 `--only-binary=:all:`이 강제됩니다.
+- 파이썬은 `pip download`로 wheelhouse를 만들고 `--no-index --find-links`로 설치합니다. `--platform`을 쓸 때는 `--only-binary=:all:`이 강제됩니다.
 - "버전이 없다"는 메시지는 대개 태그가 맞지 않다는 뜻입니다. wheel 파일 이름을 읽을 줄 알면 진단이 빨라집니다.
 - Node는 모아 주는 기본 명령이 없어 캐시, 미러, 번들 중에서 고릅니다. 캐시는 락파일과 플랫폼이 같아야 하고, 번들은 셋이 모두 같아야 합니다.
 - `npx`는 실행 시점에 네트워크를 봅니다. 폴더 복사, 사내 미러, `--offline`으로 우회합니다.
@@ -372,4 +372,4 @@ cd wheelhouse && sha256sum -c ../MANIFEST.sha256
 
 이 글은 도구를 소개하기보다, 도구가 멈추는 지점을 정리한 기록에 가깝습니다. 닫힌 망은 특별한 환경이 아니라, 우리가 평소 당연하게 쓰던 것들이 한꺼번에 드러나는 환경입니다. 그곳에서 무엇이 필요한지 목록으로 만들고 나면, 인터넷이 되는 곳의 작업도 조금 더 단단해집니다.
 
-오늘 해 볼 일은 하나면 충분합니다. 지금 쓰는 프로젝트에서 `requirements.txt`와 `package-lock.json`을 열고, 대상 환경의 OS·CPU·버전을 파일 맨 위에 적어 두는 것. 그 네 줄이 첫 상자의 설계도가 됩니다.
+오늘 해 볼 일은 하나면 충분합니다. 지금 쓰는 프로젝트에서 `requirements.txt`와 `package-lock.json`을 열고, 대상 환경의 OS·CPU·버전을 파일 맨 위에 적어 두는 것. 그 네 줄이 첫 묶음의 설계도가 됩니다.
